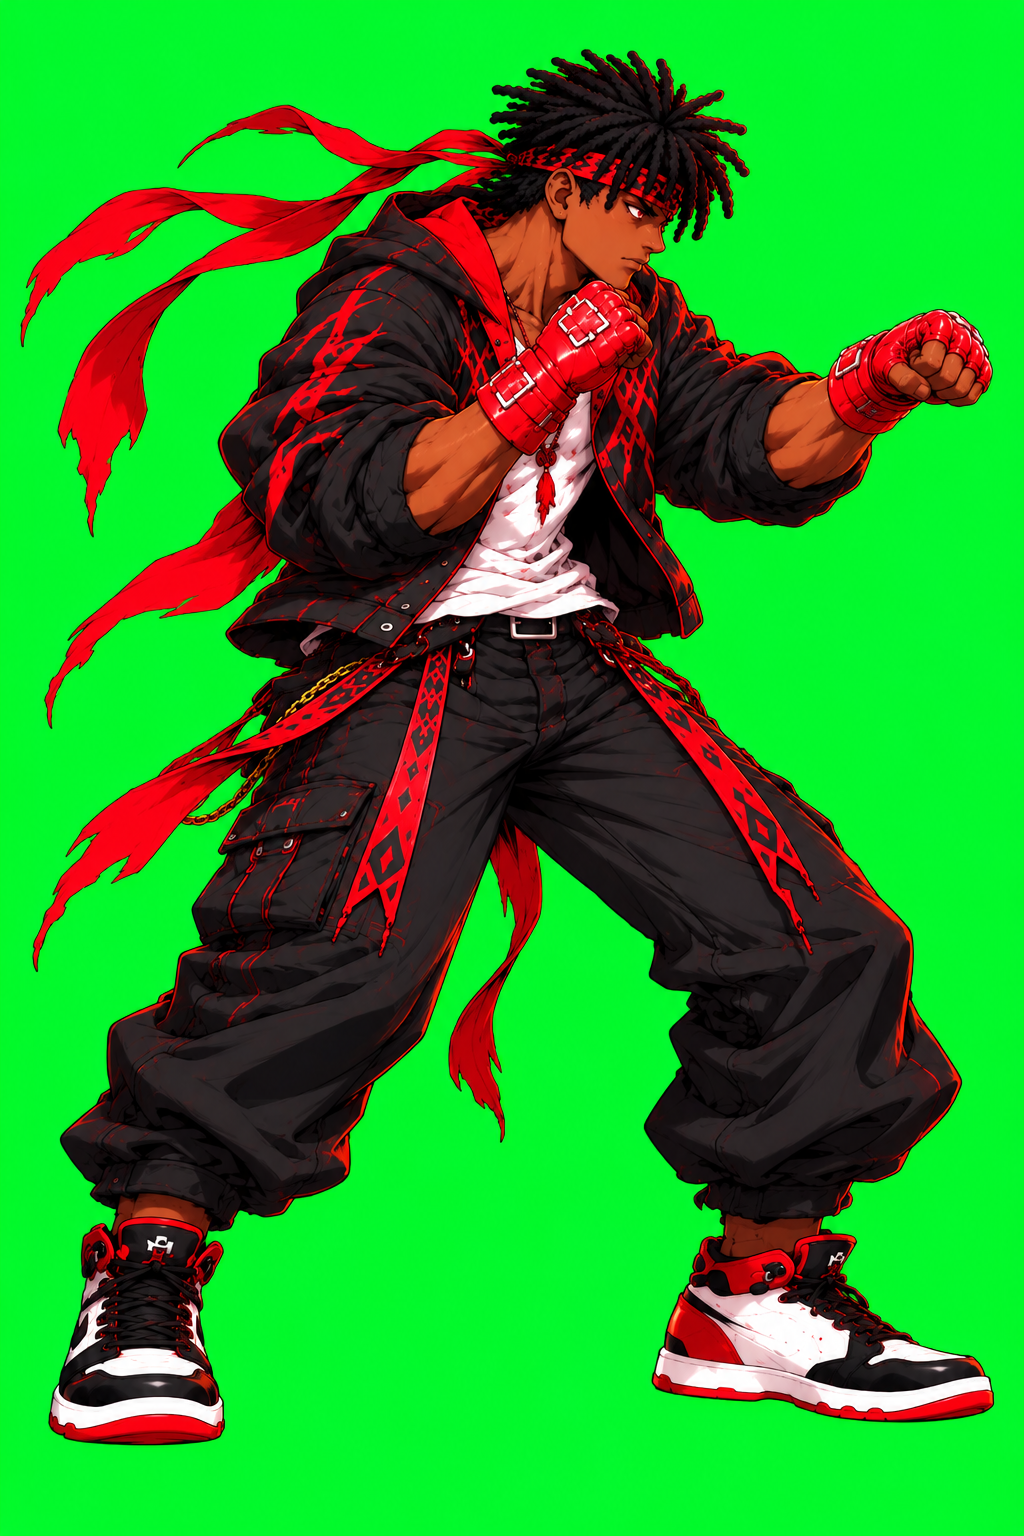
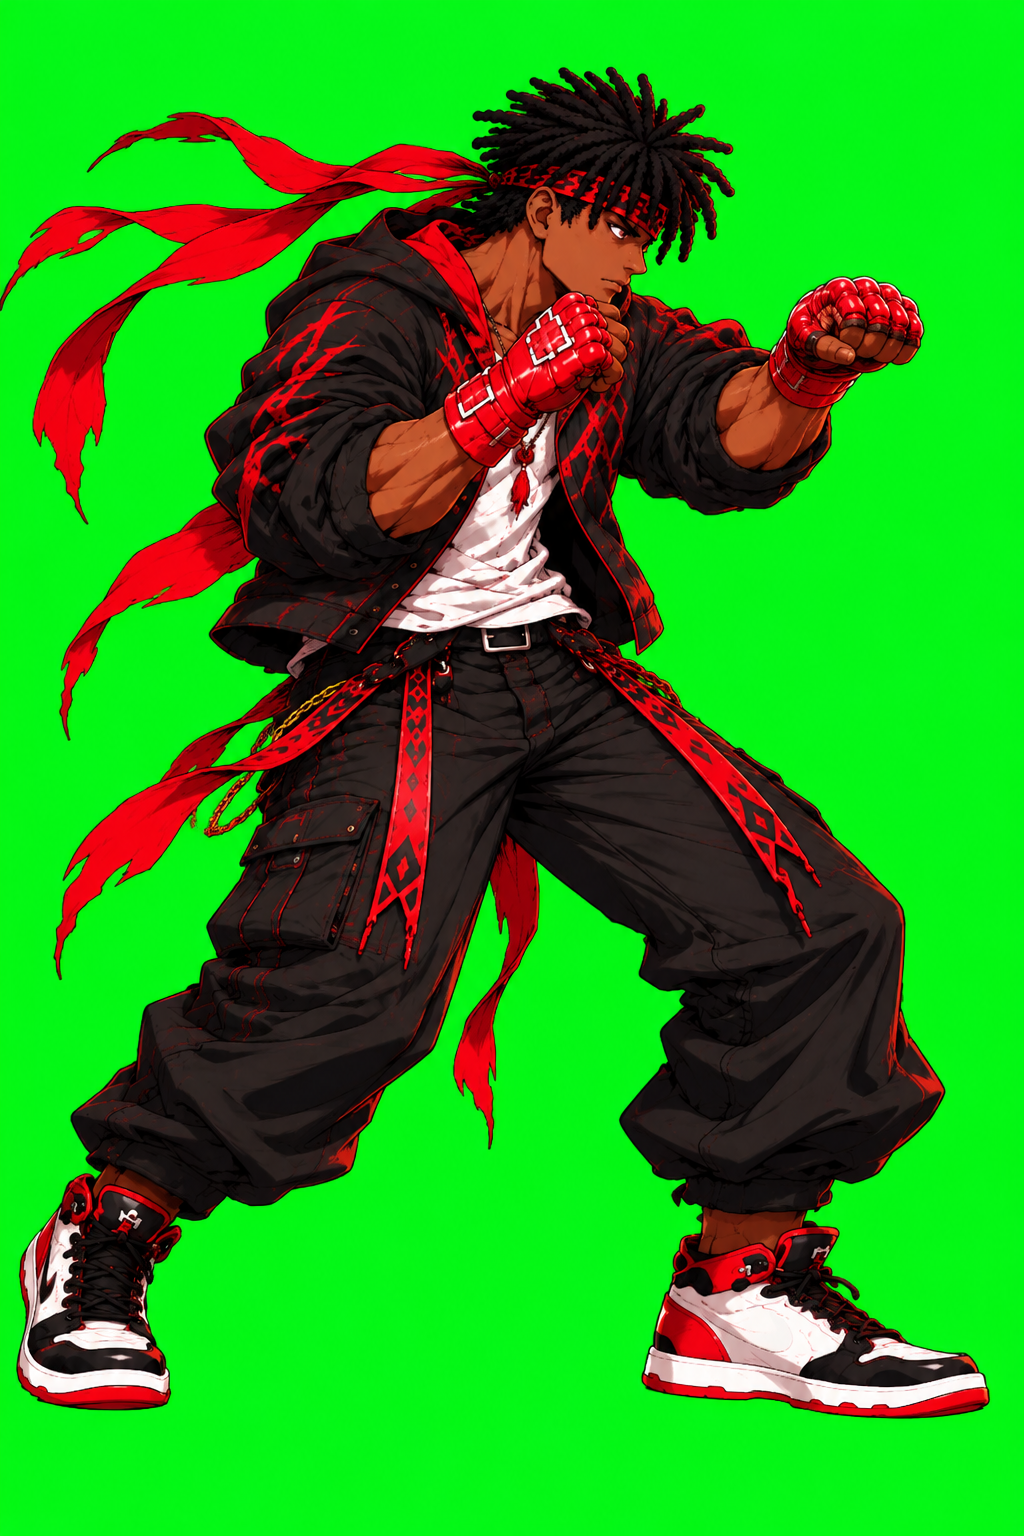
Donne au poing léger un jeu de jambes de boxe
Nouvelles illustrations du jab, utilisées entières et calées sur le
pied arrière de la garde : le pied avant fait un petit pas glissé et
le corps s'engage. Les logos des baskets sont effacés.

Claude-Session: https://claude.ai/code/session_015fMRbsLJa9znv5DiAYkBLj

diff --git a/lab/src/game/hero/poseData.ts b/lab/src/game/hero/poseData.ts
@@ -218,30 +218,26 @@ export const POSES = {
   },
   punchStart: {
     file: 'hero/punchStart.webp',
-    atlasSize: [2048, 2048] as Point,
+    atlasSize: [1024, 2048] as Point,
     /** Milieu des appuis et ligne des semelles, en pixels de la toile. */
-    anchor: [518, 1487] as Point,
+    anchor: [483, 1418] as Point,
     joints: {
       center: [512, 768] as Point,
     },
     layers: [
-      { name: 'ribbon_low', parent: -1, pivot: [512, 768], box: [120, 588, 164, 321], atlas: [0, 841] },
-      { name: 'lower', parent: -1, pivot: [512, 768], box: [36, 656, 965, 841], atlas: [0, 0] },
-      { name: 'upper', parent: -1, pivot: [512, 768], box: [15, 108, 990, 650], atlas: [965, 0] },
+      { name: 'body', parent: -1, pivot: [512, 768], box: [-8, 58, 1006, 1369], atlas: [0, 0] },
     ] as PoseLayer[],
   },
   punchHit: {
     file: 'hero/punchHit.webp',
     atlasSize: [2048, 2048] as Point,
     /** Milieu des appuis et ligne des semelles, en pixels de la toile. */
-    anchor: [518, 1487] as Point,
+    anchor: [475, 1414] as Point,
     joints: {
       center: [512, 768] as Point,
     },
     layers: [
-      { name: 'ribbon_low', parent: -1, pivot: [512, 768], box: [120, 588, 164, 321], atlas: [0, 841] },
-      { name: 'lower', parent: -1, pivot: [512, 768], box: [36, 656, 965, 841], atlas: [0, 0] },
-      { name: 'upper', parent: -1, pivot: [512, 768], box: [98, 122, 1026, 636], atlas: [965, 0] },
+      { name: 'body', parent: -1, pivot: [512, 768], box: [-8, 99, 1032, 1324], atlas: [0, 0] },
     ] as PoseLayer[],
   },
   punchMidStart: {

diff --git a/lab/tools/prepare_poses.py b/lab/tools/prepare_poses.py
@@ -37,8 +37,8 @@ LOGOS = dict(
     jumpStart=[],
     jumpRise=[],
     jumpPeak=[],
-    punchStart=[],
-    punchHit=[],
+    punchStart=[[(34, 1262), (58, 1262), (58, 1308), (34, 1308)]],
+    punchHit=[[(32, 1242), (58, 1242), (58, 1292), (32, 1292)]],
     punchMidStart=[],
     punchMidHit=[],
     punchMidRecover=[],
@@ -47,15 +47,18 @@ LOGOS = dict(
     dashBack=[],
 )
 # Logos en relief, tracés en traits pâles sur le blanc : dans chaque polygone, tout pixel clair devient blanc.
-FAINT_LOGOS = dict(jumpStart=[[(150, 1228), (188, 1226), (204, 1262), (205, 1296), (150, 1296)]])
+FAINT_LOGOS = dict(jumpStart=[[(150, 1228), (188, 1226), (204, 1262), (205, 1296), (150, 1296)]],
+                   punchStart=[[(740, 1300), (800, 1300), (800, 1345), (740, 1345)]],
+                   punchHit=[[(740, 1288), (800, 1288), (800, 1340), (740, 1340)]])
 # Poses en un seul calque : le point d'appui horizontal est donné à la main (l'aplomb des hanches).
 SINGLE = dict(step=None, dashForward=560, dashBack=360, crouchStep=None, crouch=None, blockStep=None, block=None, crouchBlock=None,
-              jumpStart=None, jumpRise=520, jumpPeak=520, jumpLand=None)
+              jumpStart=None, jumpRise=520, jumpPeak=520, jumpLand=None,
+              # jab : calé pour que le pied arrière tombe sur celui de la garde ; le pied avant fait son petit pas
+              punchStart=483, punchHit=475)
 # Coups donnés depuis la garde : le haut du corps vient de l'illustration du coup, les jambes restent celles de la
 # garde, pour que les pieds ne bougent pas. Valeur : décalage qui amène la boucle de ceinture du coup sur celle de
 # la garde (557, 693).
-ON_GUARD_LEGS = dict(punchStart=(3, 67), punchHit=(106, 65),
-                     punchMidStart=(17, 87), punchMidHit=(41, 58), punchMidRecover=(-13, 68))
+ON_GUARD_LEGS = dict(punchMidStart=(17, 87), punchMidHit=(41, 58), punchMidRecover=(-13, 68))
 
 # ---------- marche : articulations et polygones. « near » = côté proche (jambe avant, bras arrière) ----------
 WALK_JOINTS = dict(

diff --git a/lab/docs/ARCHITECTURE.md b/lab/docs/ARCHITECTURE.md
@@ -108,7 +108,7 @@ La hauteur est calculée par le moteur : une montée (`JUMP.rise`) puis une reto
 
 Un coup ne peut pas être interrompu ni enchaîné avant la fin.
 
-Seul le haut du corps vient des illustrations du coup : il est coupé juste sous la ceinture et posé sur les jambes de la garde, calé sur la boucle de ceinture (`ON_GUARD_LEGS` dans `tools/prepare_poses.py`). Les pieds ne bougent donc pas du tout pendant le coup, alors que les illustrations d'origine ont une garde plus large. Pendant le coup, les jambes et le haut du corps ne respirent pas.
+Les deux coups ne sont pas montés de la même façon. Le **léger** utilise ses illustrations entières, avec un jeu de jambes de boxe : elles sont calées pour que le pied arrière tombe sur celui de la garde, et le pied avant fait un petit pas glissé pendant que le corps s'abaisse et s'engage. Le **moyen** ne prend que le haut du corps de ses illustrations, coupé sous la ceinture et posé sur les jambes de la garde (`ON_GUARD_LEGS` dans `tools/prepare_poses.py`) : ses pieds ne bougent pas du tout. Il reste à refaire sur le modèle du léger.
 
 Il n'y a pas encore d'adversaire, donc pas de zone de frappe : le champ `reach` note seulement la portée du poing pour plus tard. `App.tsx` déclenche le coup léger avec J et le moyen avec K, ou avec leurs boutons.
 

diff --git a/lab/docs/ROADMAP.md b/lab/docs/ROADMAP.md
@@ -11,7 +11,7 @@
 - [x] Accroupi maintenu, avec une pose à mi-descente.
 - [x] Parade debout et parade accroupie, maintenues à la main (à juger en mouvement).
 - [x] Saut vertical en quatre dessins, avec ombre et reflet qui suivent la hauteur (à juger en mouvement).
-- [x] Coups de poing léger et moyen debout, minutés comme dans un jeu de combat, pieds fixes (à juger en mouvement).
+- [x] Coups de poing léger et moyen debout, minutés comme dans un jeu de combat. Le léger a un jeu de jambes de boxe (à juger en mouvement).
 - [x] Un seul atlas lié à la fois : plus de limite au nombre de poses.
 - [x] Logos de marque effacés sur les baskets de la garde et de la marche.
 
@@ -26,6 +26,7 @@
 - [ ] Effacer le logo des baskets sur la pose intermédiaire (`../art/hero-step.png`).
 - [ ] Adoucir le pli du genou de la marche et articuler l'avant-bras.
 - [ ] Articuler les bras et les jambes de la garde.
+- [ ] Poing moyen : le refaire avec un jeu de jambes, comme le léger (rotation des hanches, talon arrière qui pivote).
 - [ ] Accroupi : animer séparément la tête et les rubans.
 - [ ] Alléger le chargement : environ 17 Mo d'atlas sont téléchargés au démarrage.
 - [ ] Parade : la déclencher en reculant au moment d'un coup, quand il y aura un adversaire.

diff --git a/lab/docs/ASSETS.md b/lab/docs/ASSETS.md
@@ -35,7 +35,8 @@ Découpe actuelle :
 - **garde** : rubans (deux calques), bas du corps, buste, tête ;
 - **pose intermédiaire, dashs, mi-descente, accroupi, parades et saut** : un seul calque chacun (liste `SINGLE`, avec l'aplomb des hanches donné à la main) ;
 - **marche** : rubans (deux calques), tête, buste, hanche, bassin, deux bras, et cuisse, tibia et pied pour chaque jambe.
-- **coups de poing** : le haut du corps de l'illustration, posé sur les jambes et le ruban de hanche de la garde (`ON_GUARD_LEGS`). Pour un nouveau coup debout, il suffit de mesurer la position de sa boucle de ceinture.
+- **coup de poing léger** : un seul calque par dessin, calé sur le pied arrière de la garde (valeur dans `SINGLE`).
+- **coup de poing moyen** : le haut du corps de l'illustration, posé sur les jambes et le ruban de hanche de la garde (`ON_GUARD_LEGS`, d'après la position de la boucle de ceinture).
 
 Pour une nouvelle illustration, il faut retracer ses polygones et ses articulations en haut du script, puis contrôler la planche de `--debug`.
 
